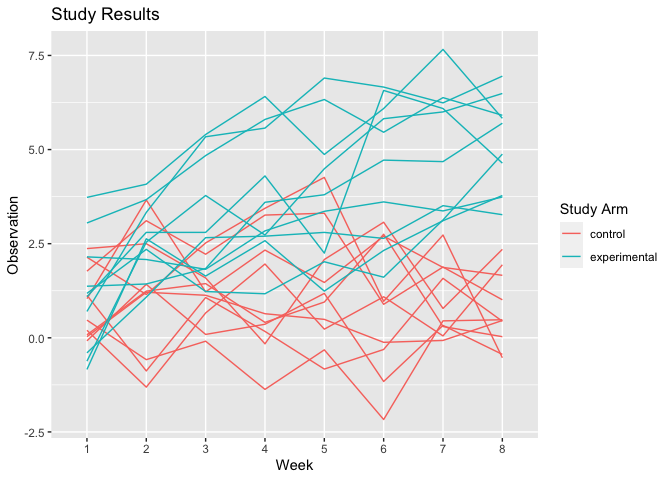
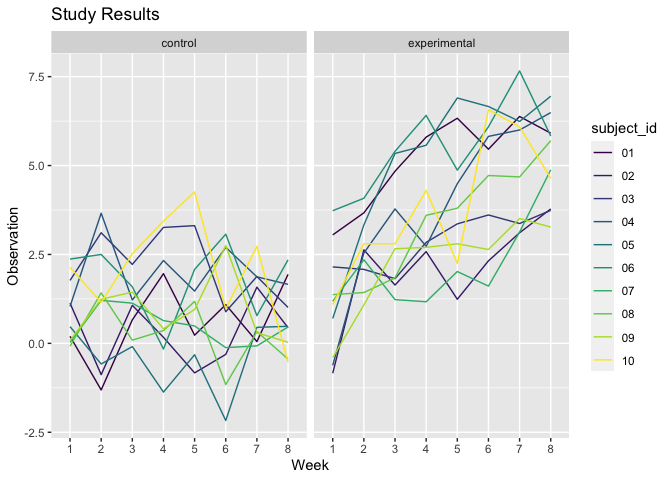
making edits to code and adding written descriptions

diff --git a/p8105_hw5_sh4354.md b/p8105_hw5_sh4354.md
@@ -1,7 +1,7 @@
 Homework 5
 ================
 Selina Hsuan
-2023-11-14
+2023-11-15
 
 ## Problem 1
 
@@ -85,10 +85,14 @@ test_results |>
 
 ## Problem 2
 
+First, we create a dataframe containing all file names.
+
 ``` r
 list_participant = 
   setdiff(list.files("data"), "homicide-data.csv")
 ```
+
+Next, we iterate over file names and read in data for each subject.
 
 ``` r
 read_data = function(file) {
@@ -96,6 +100,9 @@ read_data = function(file) {
   return(data)
 }
 ```
+
+We save the results as a new variable in participant_df and tidy the
+results.
 
 ``` r
 participant_df = 
@@ -111,21 +118,20 @@ participant_df =
          study_arm = case_when(
            study_arm == "con" ~ "control",
            study_arm == "exp" ~ "experimental"
-         )) |> 
-  mutate(subject_id_numeric = as.numeric(subject_id)) |> 
-  mutate(subject_id_renumbered = case_when(
-           study_arm == "experimental" ~ subject_id_numeric + 10,
-           TRUE ~ subject_id_numeric))
+         )) 
 ```
+
+Finally, we make a spaghetti plot.
 
 ``` r
 participant_df |> 
-  ggplot(aes(x = week, y = observation, color = study_arm, group = subject_id_renumbered)) + 
-  geom_line() +
+  ggplot(aes(x = week, y = observation, color = subject_id, group = subject_id)) + 
+  facet_grid(~study_arm) +
+  geom_line(aes(color = subject_id)) +
   labs(title = "Study Results", 
         x = "Week",
-        y = "Observation", 
-       color = "Study Arm")
+        y = "Observation") +
+  viridis::scale_color_viridis(discrete = TRUE)
 ```
 
 ![](p8105_hw5_sh4354_files/figure-gfm/unnamed-chunk-10-1.png)<!-- -->
@@ -138,44 +144,31 @@ control arm fluctuate around the same range.
 
 ## Problem 3
 
-Set seed for reproducibility
+First, we set seed for reproducibility.
 
 ``` r
 set.seed(12345)
 ```
 
-Set up design elements
+Next, we set up the design elements.
 
 ``` r
-sim_mean_sd = function(n_obs=30, mu, sigma = 5) {
+sim_function = function(n_obs=30, mu, sigma = 5) {
   
-  x = rnorm(n = n_obs, mean = mu, sd = sigma)
+  data = tibble(
+    x = rnorm(n = n_obs, mean = mu, sd = sigma)
+  )
   
-  t_test_result = t.test(x, mu = 0)
-  
-  t_test_tidy = broom::tidy(t_test_result)
-  
-  tibble(
-    est = t_test_tidy |> pull(estimate), 
-    p_val = t_test_tidy |> pull(p.value)
-    )
+  output = data |> 
+    t.test(mu=0) |> 
+    broom::tidy() |>
+    select(estimate, p.value) |>
+    rename(est = estimate, p_val = p.value)
 }
 ```
 
-Generate 5000 datasets from model
-
-``` r
-output = vector("list", length = 5000)
-
-for (i in 1:5000) {
-  
-  output[[i]] = sim_mean_sd(mu=0)
-  
-}
-
-sim_results = 
-  bind_rows(output)
-```
+Now, we generate 5000 datasets from the model for seven different values
+of mu.
 
 ``` r
 sim_result_df =
@@ -183,14 +176,15 @@ sim_result_df =
     mu = c(0, 1, 2, 3, 4, 5, 6),
     iter = 1:5000
   ) |> 
-  mutate(estimate_df = map(mu, ~sim_mean_sd(mu=.x))) |> 
+  mutate(estimate_df = map(mu, ~sim_function(mu=.x))) |> 
   unnest(estimate_df) |> 
   mutate (conclusion = case_when (
       p_val < 0.05 ~ "reject null",
       p_val >= 0.05 ~ "fail to reject null"))
 ```
 
-Power plot
+Using the generated data, we make a plot showing the proportion of times
+the null was rejected against the true value of mu.
 
 ``` r
 sim_result_df |> 
@@ -199,6 +193,7 @@ sim_result_df |>
   ggplot(aes(x = mu, y = power)) +
   geom_line() +
   geom_point() + 
+  scale_x_continuous(breaks = seq(0, 6, 1)) +
   labs(
     title = "Power Plot",
     x = "True Value of μ",
@@ -206,24 +201,26 @@ sim_result_df |>
   ) 
 ```
 
-![](p8105_hw5_sh4354_files/figure-gfm/unnamed-chunk-15-1.png)<!-- -->
+![](p8105_hw5_sh4354_files/figure-gfm/unnamed-chunk-14-1.png)<!-- -->
 The plot shows that as the true value of mu increases, the power (or
 proportion of times the null was rejected) also increases. This makes
-sense because because as the true value of mu is gets farther away from
-0, the null hypothesis of H:μ=0 is more and more likely to be rejected.
-In other words, a greater proportion of estimates from the random sample
+sense because because as the true value of mu gets farther away from 0,
+the null hypothesis of H:μ=0 is more and more likely to be rejected. In
+other words, a greater proportion of estimates from the random sample
 are significantly different from 0. According to the plot, when the true
 value of mu is 5 and 6, the null is rejected for all estimates.
 
-Average mu plot
+Now, we make a plot showing the average estimate of mu against the true
+value of mu.
 
 ``` r
 sim_result_df |> 
   group_by(mu) |> 
-  summarise(mean_mu = mean(mu)) |> 
+  summarise(mean_mu = mean(est)) |>
   ggplot(aes(x = mu, y = mean_mu)) +
   geom_line() +
-  geom_point() + 
+  geom_point() +
+  scale_x_continuous(breaks = seq(0, 6, 1)) +
   labs(
     title = "Average μ Plot",
     x = "True value of μ",
@@ -231,18 +228,20 @@ sim_result_df |>
   ) 
 ```
 
-![](p8105_hw5_sh4354_files/figure-gfm/unnamed-chunk-16-1.png)<!-- -->
+![](p8105_hw5_sh4354_files/figure-gfm/unnamed-chunk-15-1.png)<!-- -->
 
-Average mu plot for samples where null rejected
+We make a similar plot showing the average estimate of mu only in
+samples for which the null was rejected against the true value of mu.
 
 ``` r
 sim_result_df |> 
   filter(conclusion == "reject null") |> 
   group_by(mu) |> 
-  summarise(mean_mu = mean(mu)) |> 
+  summarise(mean_mu = mean(est)) |> 
   ggplot(aes(x = mu, y = mean_mu)) +
   geom_line() +
   geom_point() +
+  scale_x_continuous(breaks = seq(0, 6, 1)) +
   labs(
     title = "Average μ Plot (Samples for which the null was rejected)",
     x = "True value of μ",
@@ -250,9 +249,18 @@ sim_result_df |>
   ) 
 ```
 
-![](p8105_hw5_sh4354_files/figure-gfm/unnamed-chunk-17-1.png)<!-- -->
+![](p8105_hw5_sh4354_files/figure-gfm/unnamed-chunk-16-1.png)<!-- -->
 
-The sample average of μ̂ across tests for which the null is rejected is
-approximately equal to the true value of μ. This is because the sample
-is random, meaning it will result in approximately the same distribution
-as the true sample mean.
+Based on the two plots above, when the true value of mu is 0-4, the
+average estimate of mu across tests for which the null is rejected is
+greater than the true value of mu. When the true value of mu reaches 5
+and 6, the average estimate of mu is equal to the true value of mu. The
+average estimate deviates the greatest from the true value when the true
+value equals 1. This is because the closer the true mu is to 0, the
+greater the proportion of estimates that will be deemed significantly
+similar to 0. Thus, the estimates that are not significant (null is
+rejected) will skew on the higher end of the distribution of estimates
+of the true mu. As the true mu increases, an increasingly smaller
+proportion of estimates are deemed significantly similar to 0. Thus,
+when the true mu reaches 5 and 6, the average estimate of mu is equal to
+the true value of mu.
